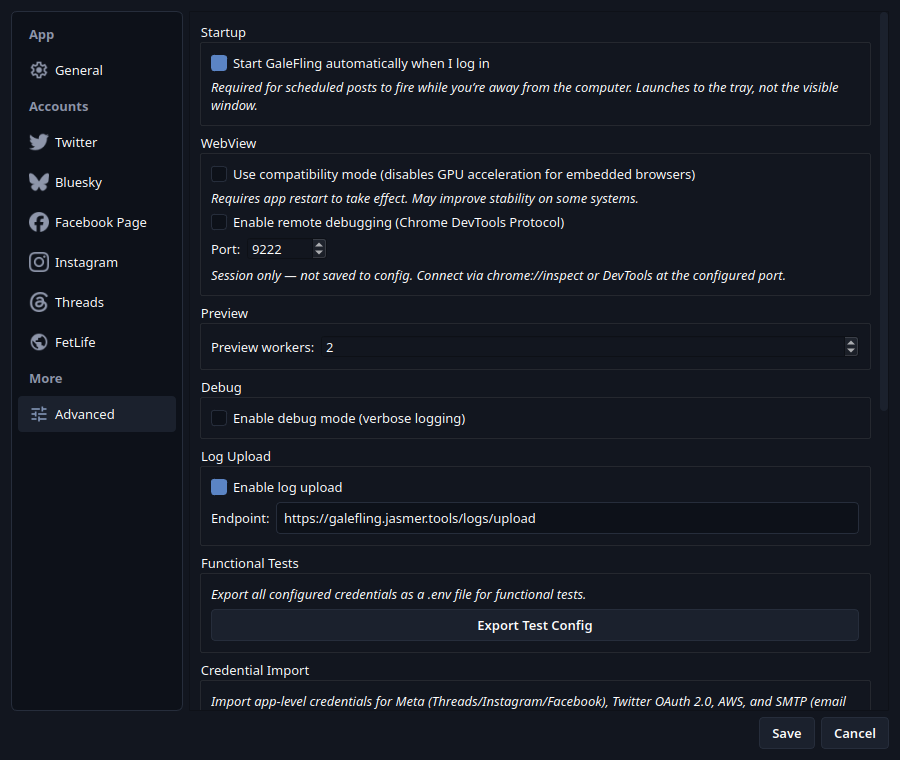
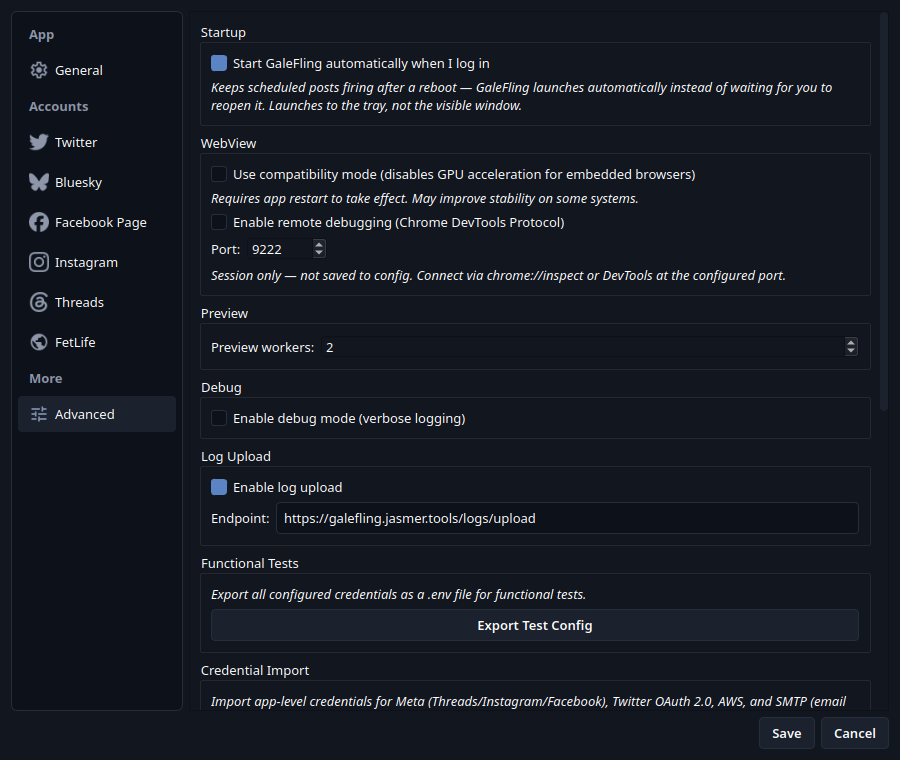
Fix inaccurate Start at login hint text
"Required for scheduled posts to fire while you're away from the
computer" was wrong -- the setting isn't about presence, a scheduled
post fires either way as long as GaleFling is running. It's for
surviving a reboot, so GaleFling relaunches instead of Rin having to
notice and reopen it herself.

🌸 Shipped with Kanna — https://kanna.sh

Kanna-Agent: claude/sonnet

Changed region(s): [[0.2178, 0.0908, 0.9333, 0.1513]]

diff --git a/tools/screenshots/generate_scheduling_mockups.py b/tools/screenshots/generate_scheduling_mockups.py
@@ -466,8 +466,9 @@ def capture_settings_start_at_login(app: QApplication) -> None:
     autostart_cb.setChecked(True)
     startup_layout.addWidget(autostart_cb)
     hint = QLabel(
-        '<i>Required for scheduled posts to fire while you’re away from the '
-        'computer. Launches to the tray, not the visible window.</i>'
+        '<i>Keeps scheduled posts firing after a reboot — GaleFling launches '
+        'automatically instead of waiting for you to reopen it. Launches to '
+        'the tray, not the visible window.</i>'
     )
     hint.setWordWrap(True)
     startup_layout.addWidget(hint)

diff --git a/docs/plans/SCHEDULING_UI_DESIGN.md b/docs/plans/SCHEDULING_UI_DESIGN.md
@@ -226,8 +226,16 @@ post fires at all).
 
 - **Checkbox**: "Start GaleFling automatically when I log in."
 - **Hint text** (italic, muted, matching every other group's hint label
-  convention): "Required for scheduled posts to fire while you're away from
-  the computer. Launches to the tray, not the visible window."
+  convention): "Keeps scheduled posts firing after a reboot — GaleFling
+  launches automatically instead of waiting for you to reopen it. Launches
+  to the tray, not the visible window." Corrected (Jas) from an earlier
+  draft's "required... while you're away from the computer" — the setting
+  isn't about presence at all (a post fires whether or not Rin is at the
+  machine, as long as GaleFling is running); it's specifically about
+  surviving a reboot, per
+  [SCHEDULING.md's Start at login](SCHEDULING.md#start-at-login): "the
+  machine can be on and Rin logged in, with GaleFling simply never launched
+  since the last boot."
 
 This is the durable, always-available control. The
 [Schedule dialog's inline checkbox](#1-schedule-dialog) is the proactive
@@ -341,6 +349,7 @@ None outstanding. All three questions this section originally listed are resolve
 
 | Date | Change |
 |------|--------|
+| 2026-08-22 | Corrected the [Start at login](#4-start-at-login-toggle-settings--advanced) hint text (Jas): "required... while you're away from the computer" was wrong — the setting isn't about presence, a scheduled post fires either way as long as GaleFling is running. It's specifically for surviving a reboot, so GaleFling relaunches instead of Rin having to notice and reopen it herself. New text: "Keeps scheduled posts firing after a reboot — GaleFling launches automatically instead of waiting for you to reopen it." Regenerated `settings-start-at-login.png`. |
 | 2026-08-22 | Enlarged both the composer's calendar and emoji icons to 30×30 (Jas), up from `EmojiPickerButton`'s current 20×20 — a real change to the existing emoji button too, not just the new calendar icon's size. Regenerated `composer-schedule-icon.png`; the mockup script now overrides the real `PostComposer` instance's emoji button icon size before capturing, alongside the new calendar button. |
 | 2026-08-22 | Changed the Schedule dialog's entry point (Jas): a calendar icon `QToolButton` in the composer's `emoji_row`, immediately left of the emoji picker, instead of a separate "Schedule…" button in `main_window.py`'s button row. Added `composer-schedule-icon.png`, generated by injecting into the real `PostComposer` (same technique the Settings mockup already used). No calendar/event icon exists in `src/resources/icons/ui/` yet, so the mockup hand-draws one (`_calendar_icon` in the generator script) — flagged as needing a real Material Symbols icon at implementation time. Updated [Screen inventory](#screen-inventory), [Component / file mapping](#component--file-mapping), and the queue's "New Scheduled Post…" footer wording accordingly. |
 | 2026-08-22 | Removed the "How these mockups were made" section's `results_dialog.py` badge-rendering bug callout (Jas: already addressed) — it was fixed and merged (#69) shortly after this document's initial draft flagged it, so the standing "flagged, not fixed here" note was stale. The 2026-08-21 changelog entry that first flagged it is left as-is (historical record). |
